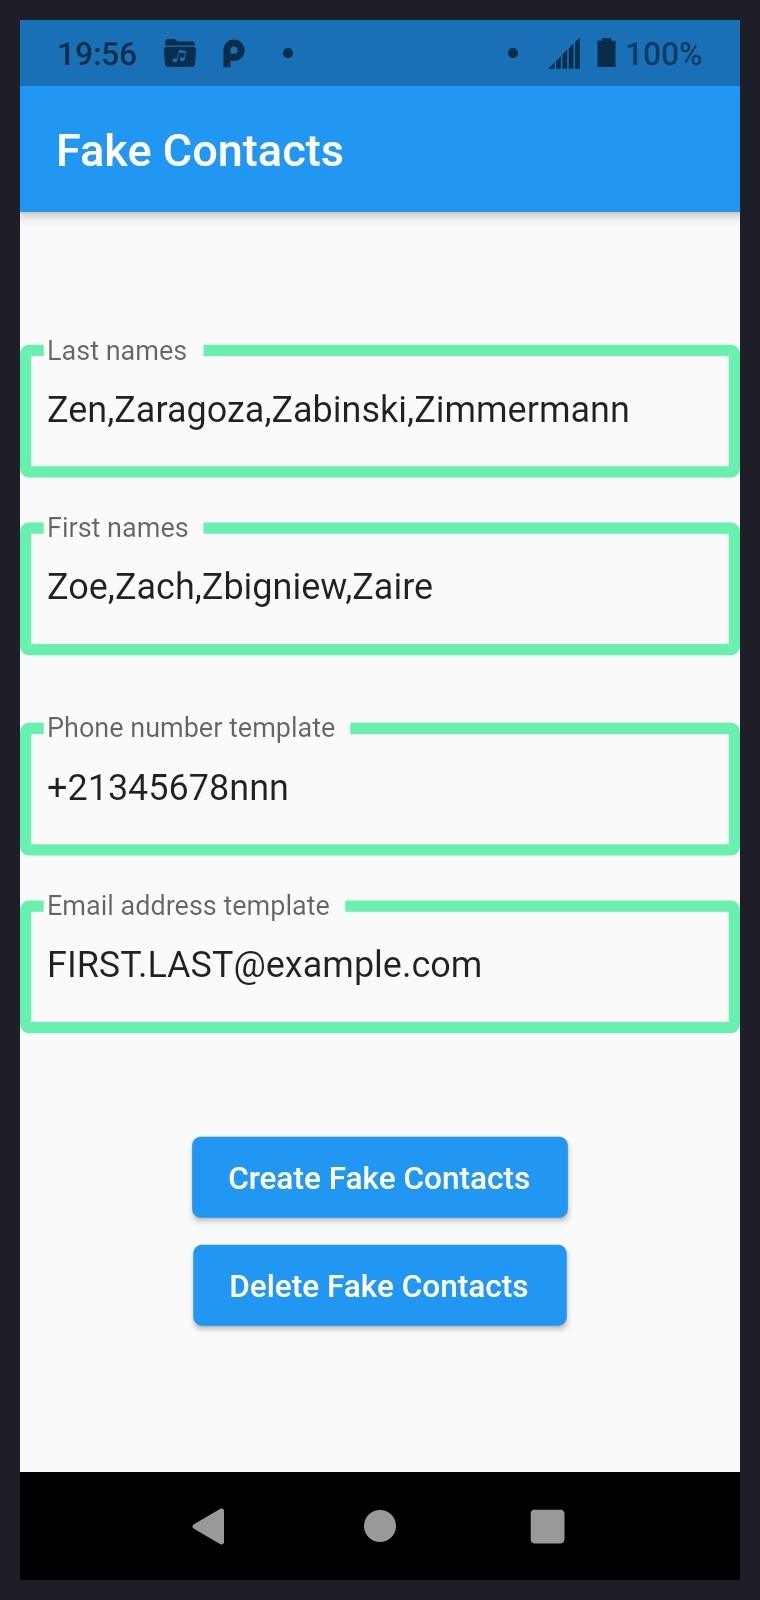
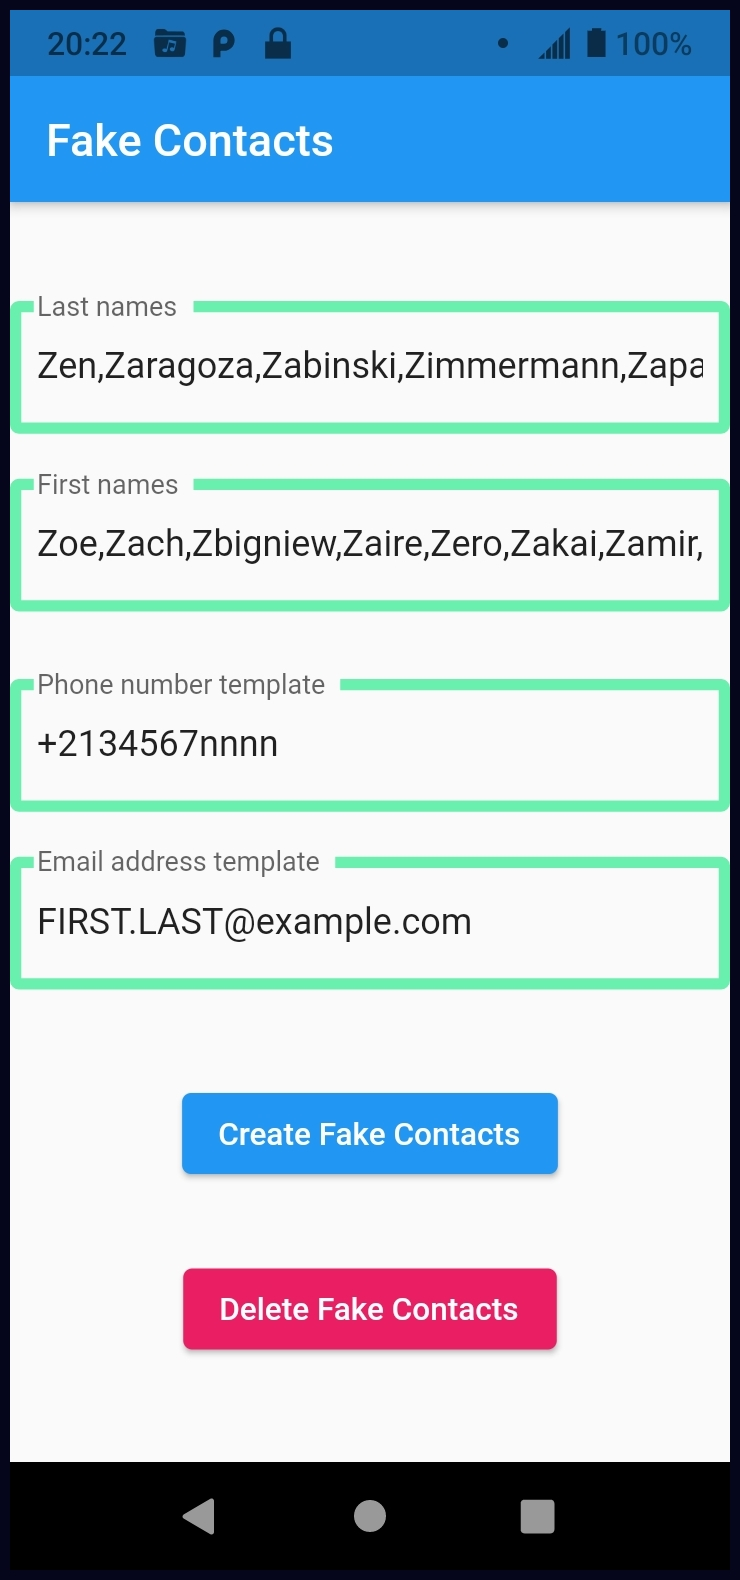
1.7.0 Changed color of delete button, added space between buttons, added a lot more names, cleaned up the code a little

diff --git a/lib/main.dart b/lib/main.dart
@@ -65,8 +65,7 @@ class _MyHomePageState extends State<MyHomePage> {
     SharedPreferences prefs;
 
     prefs = await SharedPreferences.getInstance();
-    final String sValue = (prefs.getString('sListOfLastNames') ??
-        "Zen,Zaragoza,Zabinski,Zimmermann,Zapata,Zona,Zidane");
+    final String sValue = prefs.getString('sListOfLastNames');
     sListOfLastNames = sValue;
     // to create the array of names
     _changedLastNames(sListOfLastNames);
@@ -78,7 +77,7 @@ class _MyHomePageState extends State<MyHomePage> {
     SharedPreferences prefs;
 
     prefs = await SharedPreferences.getInstance();
-    final String sValue = (prefs.getString('sListOfFirstNames') ?? "Zoe,Zach,Zbigniew,Zaire,Zero");
+    final String sValue = prefs.getString('sListOfFirstNames');
     sListOfFirstNames = sValue;
     // to create the array of names
     _changedFirstNames(sListOfFirstNames);
@@ -90,7 +89,7 @@ class _MyHomePageState extends State<MyHomePage> {
     SharedPreferences prefs;
 
     prefs = await SharedPreferences.getInstance();
-    final String sValue = (prefs.getString('sPhoneNumberTemplate') ?? "+21345678nnn");
+    final String sValue = prefs.getString('sPhoneNumberTemplate');
     sPhoneNumberTemplate = sValue;
     return sValue;
   }
@@ -100,7 +99,7 @@ class _MyHomePageState extends State<MyHomePage> {
     SharedPreferences prefs;
 
     prefs = await SharedPreferences.getInstance();
-    final String sValue = (prefs.getString('sEmailAddressTemplate') ?? "FIRST.LAST@example.com");
+    final String sValue = prefs.getString('sEmailAddressTemplate');
     sEmailAddressTemplate = sValue;
     return sValue;
   }
@@ -113,9 +112,9 @@ class _MyHomePageState extends State<MyHomePage> {
     sListOfLastNames = prefs.getString('sListOfLastNames');
     //log("getStoredSettings: retrieved last names " + (sListOfLastNames ?? "null"));
     if (sListOfLastNames == null) {
-      sListOfLastNames = "Zen,Zaragoza,Zabinski,Zimmermann,Zapata,Zona,Zidane";
-      sListOfFirstNames = "Zoe,Zach,Zbigniew,Zaire,Zero";
-      sPhoneNumberTemplate = "+21345678nnn";
+      sListOfLastNames = "Zen,Zaragoza,Zabinski,Zimmermann,Zapata,Zona,Zidane,Zeiss,Zimmer,Zaal,Zaman,Zambrano,Zanetti,Zangari,Zappa,Zavala,Zawisza,Zeegers,Zelenka,Zellweger,Zeni,Zhang,Zhao,Zheng,Zhou,Ziegler,Zima";
+      sListOfFirstNames = "Zoe,Zach,Zbigniew,Zaire,Zero,Zakai,Zamir,Zan,Zanna,Zareen,Zeb,Zeki,Zelda,Zella,Zeno,Zephyr,Zhen,Zhi,Zhong,Zhu,Ziba,Ziggy,Zion,Zola,Zolyan,Zora,Zsazsa,Zuzana";
+      sPhoneNumberTemplate = "+2134567nnnn";
       sEmailAddressTemplate = "FIRST.LAST@example.com";
       saveLastNames();
       saveFirstNames();
@@ -139,19 +138,6 @@ class _MyHomePageState extends State<MyHomePage> {
     firstNamesController.text = sListOfFirstNames;
     phoneNumberTemplateController.text = sPhoneNumberTemplate;
     emailAddressTemplateController.text = sEmailAddressTemplate;
-  }
-
-  void getSettings() {
-    log("getSettings: called");
-
-      sListOfLastNames = "Zen,Zaragoza,Zabinski,Zimmermann,Zapata,Zona,Zidane";
-      sListOfFirstNames = "Zoe,Zach,Zbigniew,Zaire,Zero";
-      sPhoneNumberTemplate = "+21345678nnn";
-      sEmailAddressTemplate = "FIRST.LAST@example.com";
-
-      // to create the arrays of names
-      _changedLastNames(sListOfLastNames);
-      _changedFirstNames(sListOfFirstNames);
   }
 
   void saveLastNames() async {
@@ -224,7 +210,7 @@ class _MyHomePageState extends State<MyHomePage> {
       // Either the permission was already granted before or the user just granted it.
 
       for (var i=0 ; i<lastNames.length ; i++) {
-        for (var j = 0; j < firstNames.length; j++) {
+        for (var j=0; j<firstNames.length; j++) {
           Contact newContact = Contact(
               displayName: (firstNames[j] + " " + lastNames[i]),
               givenName: firstNames[j],
@@ -249,7 +235,7 @@ class _MyHomePageState extends State<MyHomePage> {
     } else {
       // Either the permission was already granted before or the user just granted it.
       for (var i=0 ; i<lastNames.length ; i++) {
-        for (var j = 0; j < firstNames.length; j++) {
+        for (var j=0; j<firstNames.length; j++) {
           Contact newContact = Contact(
               displayName: (firstNames[j] + " " + lastNames[i]),
               givenName: firstNames[j],
@@ -313,7 +299,6 @@ class _MyHomePageState extends State<MyHomePage> {
   @override
   Widget build(BuildContext context) {
 
-    //getSettings();      // dummy that doesn't read storage
     getStoredSettings();  // need to wait for it, but can't !!!
     //Future.wait(getStoredSettings());   // illegal ?
     //final int number = waitFor<int>(getStoredSettings());
@@ -414,9 +399,14 @@ class _MyHomePageState extends State<MyHomePage> {
               onPressed: () => _createAllContacts(),
               child: Text("Create Fake Contacts"),
             ),
+            SizedBox(
+              width: 10,
+              height:30,
+            ),
             ElevatedButton(
               onPressed: () => _deleteAllContacts(),
               child: Text("Delete Fake Contacts"),
+              style: ButtonStyle(backgroundColor: MaterialStateProperty.all<Color>(Colors.pink) ),
             ),
           ],
         ),

diff --git a/README.md b/README.md
@@ -10,13 +10,13 @@ The user can set lists of last names and first names for fake contacts, and phon
 
 ## Use
 
-<img src="UsingTheApp.jpg" width="190" height="400" />
+<img src="UsingTheApp.jpg" width="185" height="395" />
 
 The default values should be sensible.  All of the first and last names start with "Z", to try to keep them from colliding with names of real contacts, and to keep them out of the way (at the end of the Contacts list).
 
-So, just install and launch the application, and click the "Create Fake Contacts" button.  The system should ask you to grant Contacts permission to the application.  Then the contacts (one for each firstname-lastname combination) will be created.  Launch your usual Contacts app and scroll to the end to see the new contacts.
+So, just install and launch the application, and click the "Create Fake Contacts" button.  The system should ask you to grant Contacts permission to the application.  Then the contacts (one for each firstname-lastname combination) will be created.  Launch your usual Contacts app and scroll to the end to see the new contacts.  Note: it may take a couple of minutes to update the list.
 
-If you wish, click the "Delete Fake Contacts" button to delete them.  You also could use your normal Contacts app to delete them manually at any time, without causing any problem.
+If you wish, click the "Delete Fake Contacts" button to delete them.  Note: it may take a couple of minutes to update the list.  You also could use your normal Contacts app to delete them manually at any time, without causing any problem.
 
 You could uninstall this app after creating the fake contacts, without causing any problem.
 
@@ -27,7 +27,7 @@ You could uninstall this app after creating the fake contacts, without causing a
 
 * The list of first names is similar.
 
-* The phone-number template is a single value used for all contacts.  Any character "n" in it will be replaced by a digit 0-9, derived from the contact's last name.  The default format is ```+21345678nnn```, which is intended to use an unassigned country code "21".  You could delete the contents of this field if you wish, and no phone numbers will be generated.
+* The phone-number template is a single value used for all contacts.  Any character "n" in it will be replaced by a digit 0-9, derived from the contact's last name.  The default format is ```+2134567nnnn```, which is intended to use an unassigned country code "21".  You could delete the contents of this field if you wish, and no phone numbers will be generated.
 
 * The email-address template is a single value used for all contacts.  Any string "FIRST" in it will be replaced by the contact's first name.  Any string "LAST" in it will be replaced by the contact's last name.  The default format is ```FIRST.LAST@example.com```, which is intended to be an unused email domain.  You could delete the contents of this field if you wish, and no email addresses will be generated.
 
@@ -45,18 +45,23 @@ You could uninstall this app after creating the fake contacts, without causing a
 
 
 ## Releases
-### 1.0.0
+### 1.0.0 Got working.
+### 1.6.0 Got published on F-Droid.
+### 1.7.0 Changed color of delete button, added space between buttons, added a lot more names, cleaned up the code a little.
+
 
 
 ---
 
 ## Development
 ### To-Do list
-* Get published in F-Droid.
+* What Android versions are supported ?  I tested on 9; someone else says it works on 9 and crashes on 5.
+* Add buttons to add/delete fake secondary info (e.g. birthday ?) on ALL contacts. Or make a separate app for that.
+* Want to explicitly set Notification permission off, but there's no way to do it.
 * No UI feedback after create and delete operations.
+* Add photos from thispersondoesnotexist.com ?
 * Inefficiency in the "save settings after every char changed in field" events.
 * Test on iOS.
-* Sometimes profiler complains that app is doing too much work on main thread.  Could be an issue if someone puts in many names ?
 
 ### Development Environment
 I'm no expert on this stuff, this is my first phone app, maybe I'm doing some things stupidly.
@@ -66,8 +71,12 @@ Now using:
 * Flutter
 * Dart
 * Linux
+* Phone running Android 9
 
-https://github.com/BillDietrich/fake_contacts.git
+[GitHub repo for this app](https://github.com/BillDietrich/fake_contacts)
+
+[My web site](https://www.billdietrich.me/)
+
 
 ---
 
